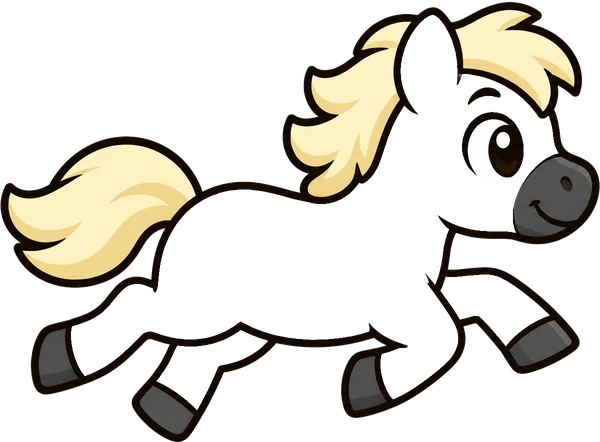
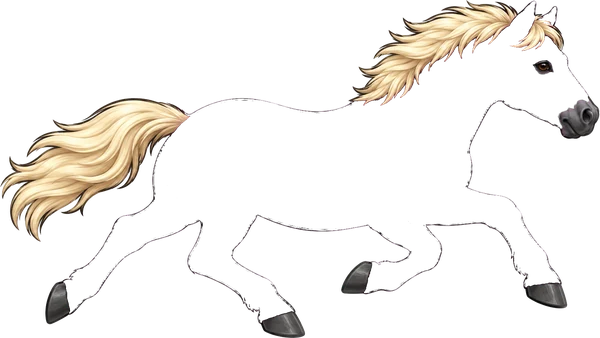
Update 22.11.2026 11:30

diff --git a/online/rallye-trainer.html b/online/rallye-trainer.html
@@ -925,7 +925,7 @@ function mitTuning(svg, id, tune, gold){
 // ===== Gemalte Modelle (vom Lehrer gemalt, Teil zum Umfärben in Magenta) =====
 // bilder/rallye/<id>_s.webp = Schatten des Lack-Teils in Grau (128 = genau die gewählte Farbe), <id>_r.webp = alles andere.
 // Die Farbe (auch Verläufe wie Gold oder Regenbogen) liegt unter den Schatten, Mischung „hard-light".
-const BILD_FZ={p1:1, r1:1};
+const BILD_FZ={p1:1, p3:1, p9:1, p10:1, r1:1};     // Pferde 22.11.2026 realistisch (Pony, Reitpferd, Einhorn, Pegasus)
 for(let i=1;i<=20;i++) BILD_FZ["a"+i]=1;      // 22.11.2026: alle 20 Autos gemalt (realistischer Stil)
 let bildNr=0;
 function svgBild(id,c){
